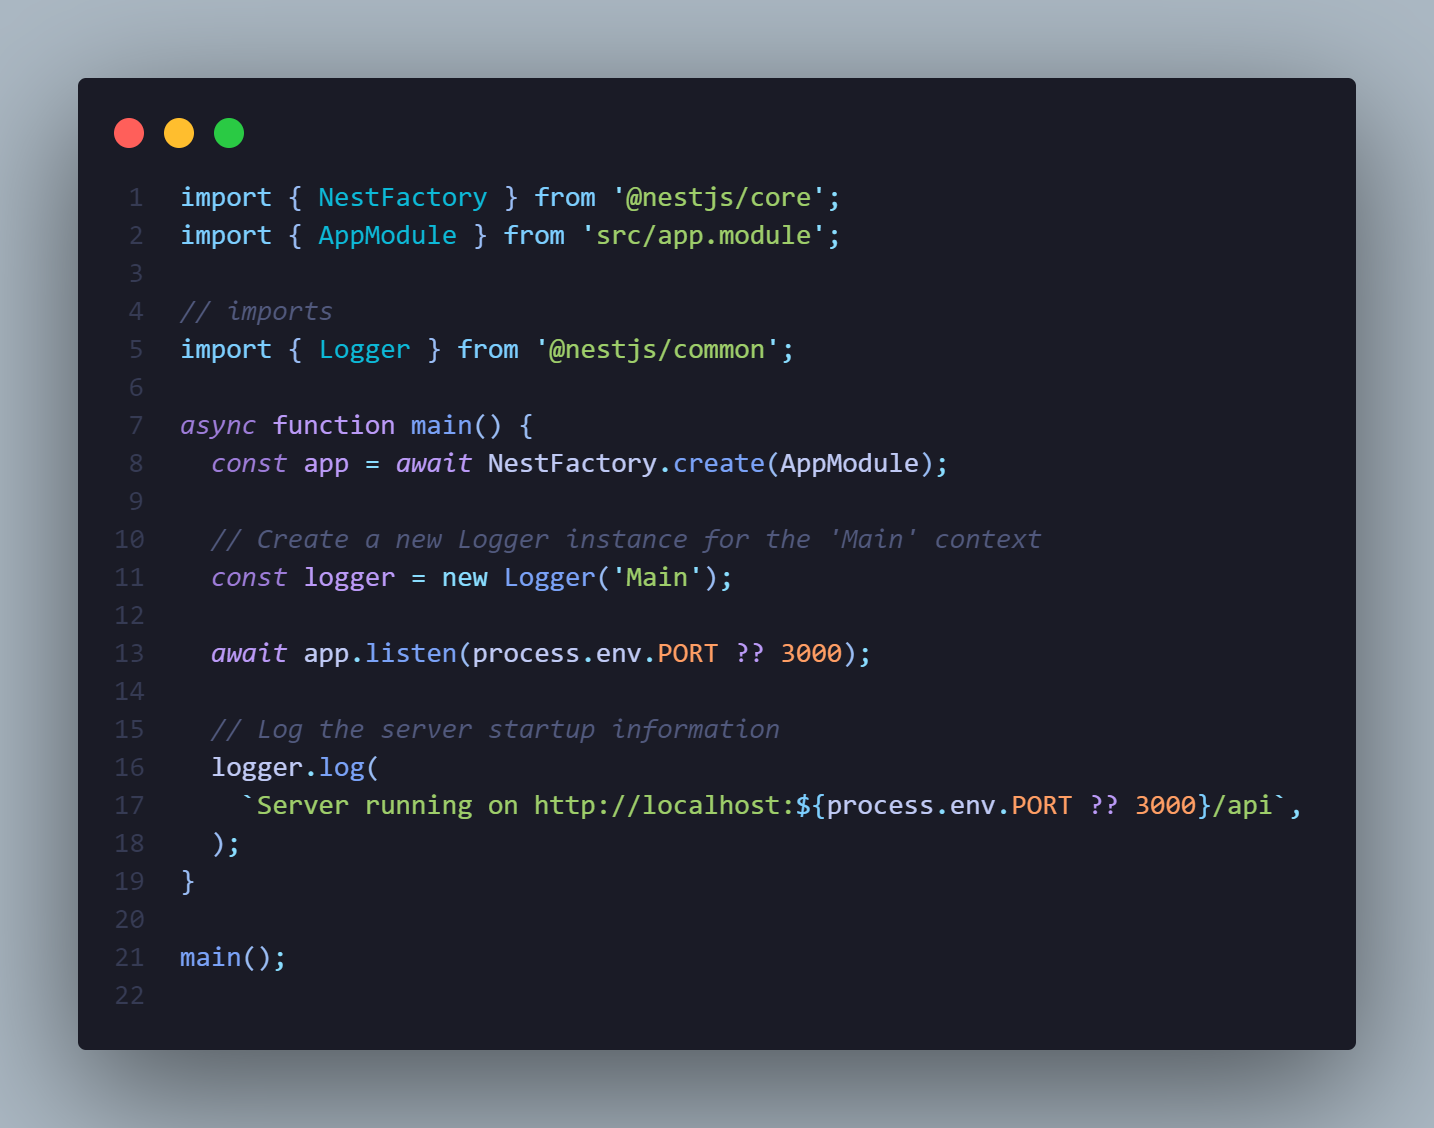
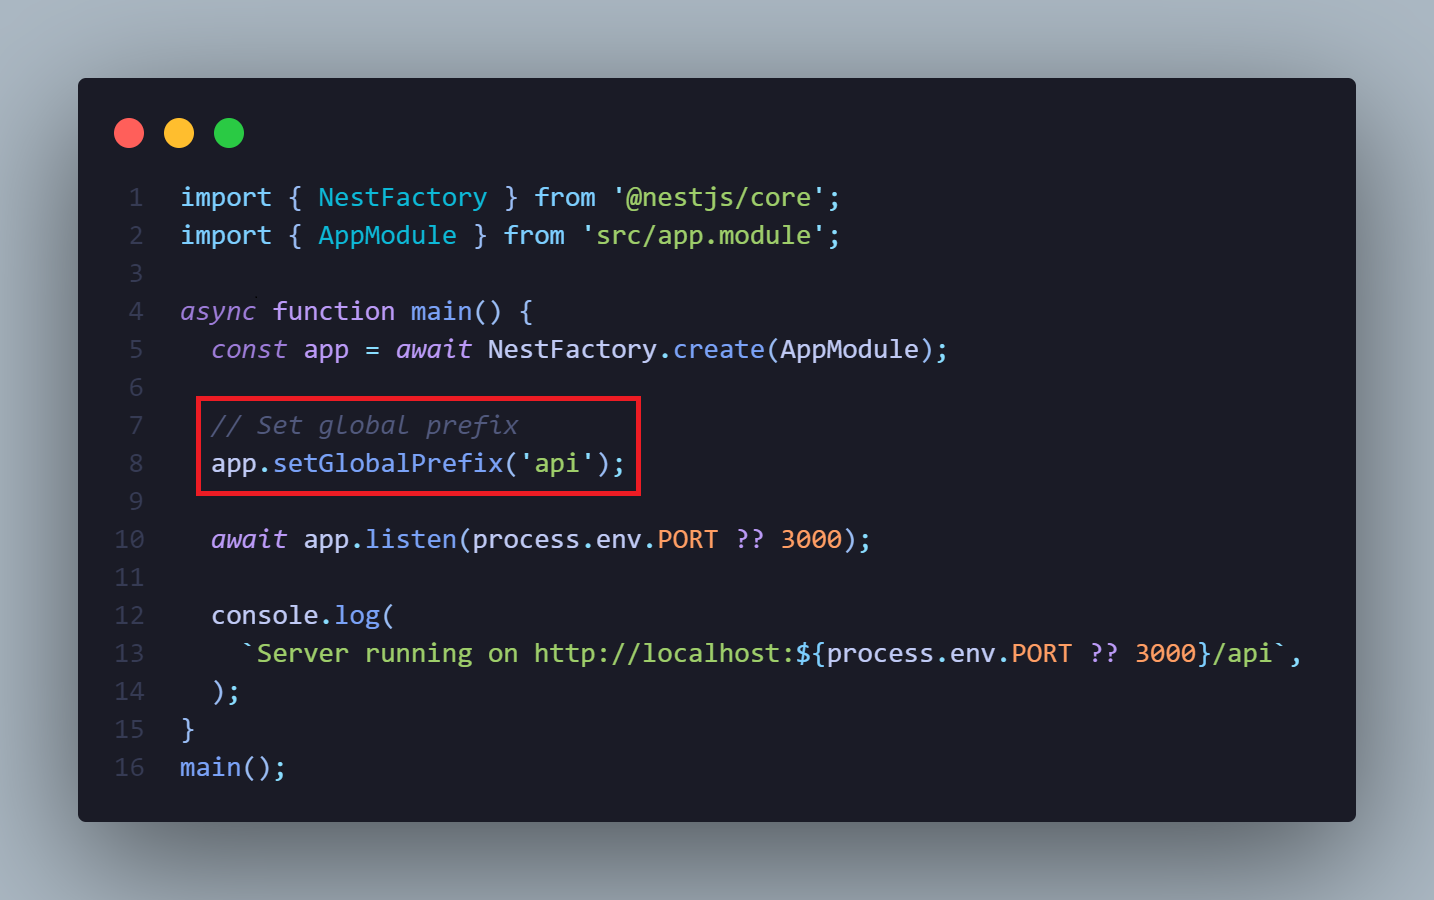
update

diff --git a/example/nest/logger-main/main.ts b/example/nest/logger-main/main.ts
@@ -1,3 +1,4 @@
+// main.ts
 import { NestFactory } from '@nestjs/core';
 import { AppModule } from 'src/app.module';
 

diff --git a/.github/Readme.md b/.github/Readme.md
@@ -7,10 +7,14 @@
 # Índice
 
 - [Índice](#Índice)
+
   - NestJS
+
     - [First steps](#first-steps)
     - [Create a new project](#get-started)
     - [Logger server startup](https://github.com/DaniDeDos/next-compilation/tree/main/example/nest/logger-main)
+    - [Global prefix](https://github.com/DaniDeDos/next-compilation/tree/main/example/nest/global-prefix)
+
   - TypeORM
     - test
 

diff --git a/example/nest/global-prefix/Readme.md b/example/nest/global-prefix/Readme.md
@@ -1,7 +1,7 @@
 <h1 align="center">Set global prefix</h1>
 
 <p align="center">
-  <img src="../../../public//assets//img/global-prefix.png"  width="480" alt="Nest Logo" />
+  <img src="../../../public//assets//img/global-prefix-req.png"  width="240" alt="api req example" />
 </p>
 
 ### 1. Update file `src/main.ts`
